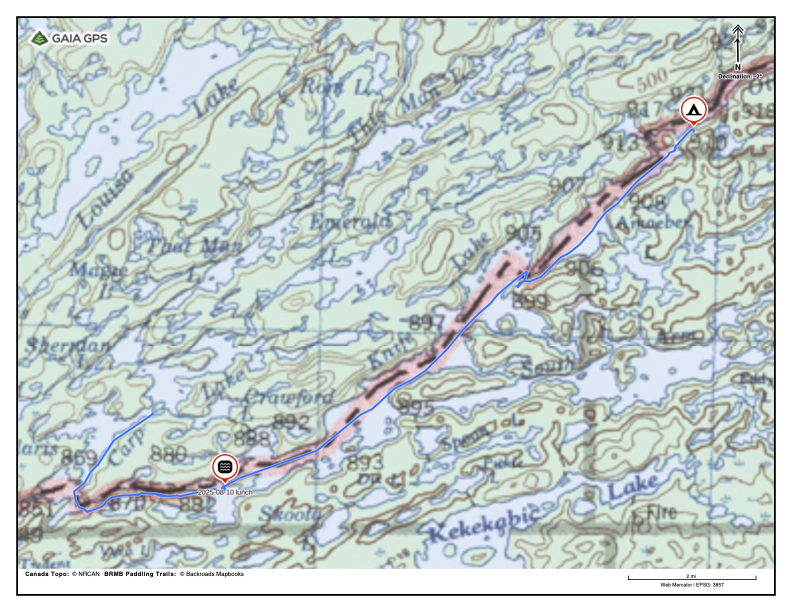
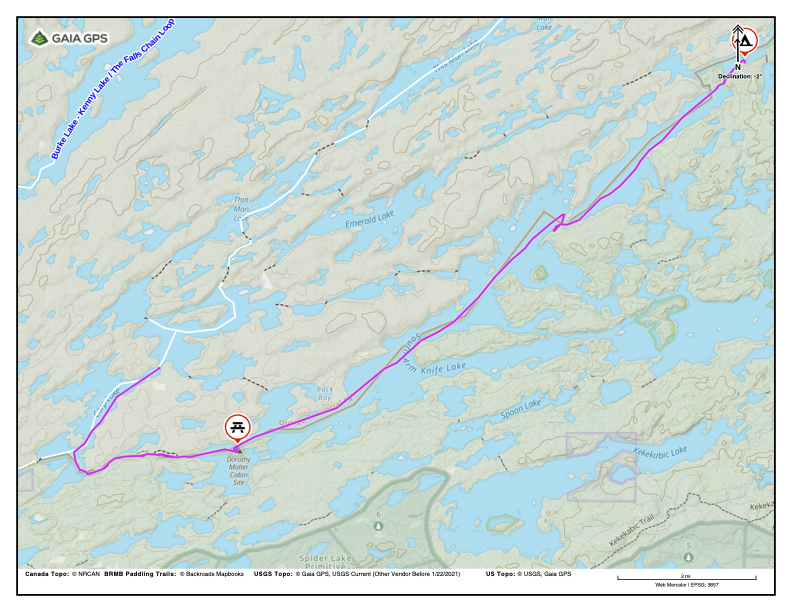
Add map 20250811.png 20250812.png

diff --git a/Hunters-Island-2025.md b/Hunters-Island-2025.md
@@ -383,7 +383,7 @@ growing in it, so it hasn't been used for a while.
 
 The weather was calm until evening, with clouds rolling in and out, but when we
 made camp, the wind was notable. When we went to the tent, the wind had almost
-died but not quite entirely.
+died but not entirely.
 
 I would've liked to have made it to Robinson Island but we were both too tired
 to make the portages between Carp and there.
@@ -409,7 +409,7 @@ that gravy residue doesn't go as well with coffee as does oatmeal residue.
 While we were eating breakfast, Royce was reviewing the maps and spotted an
 alternate route to Knife Lake. Since then, we've been musing about it. Just
 north of us, there is a 100 yard/18 rod portage to Crawford Lake. After a short
-paddle, there is a 0.4 mile/135 rod portage to Back Bay of Knife Lake, which bay
+paddle, there is a 0.4 mile/135 rod portage to Back Bay of Knife Lake, which
 would bring us into Knife north of Robbins Island. This route would be in lieu
 of the portages from Carp to Melon, Melon to Seed, Seed to the unnamed lake, the
 Big Knife Portage (75 rods), plus the paddle from the portage past the east end
@@ -425,16 +425,15 @@ stick with our original plan and to take the portage to Melon Lake.
 (Packing note: yesterday, we had moved both pairs of our Chaco &ldquo;magic
 sandals&rdquo; from the rubber pack to the gear pack and were surprised how
 notable the extra weight was. Today, to balance the load, we moved one pair to
-the food pack.)
+the food pack.) The food barrels are notably lighter and we've started moving
+gear into them.
 
 Wind is low, with occasional gusts. No clouds excepting a few mares tales.
 
-The food barrels are notably lighter and we've started moving gear into them.
-
 I choose to paddle along the north shore of Birch Lake. I'd forgotten how many
-down trees there in the water. A few trees are standing well out in the lake.
-The first dam at Prairie Portage was built around 1900. Could these standing
-dead trees be from before that?
+down trees there are in the water. A few trees are standing well out in the
+lake. The first dam at Prairie Portage was built around 1900. The standing trees
+are old and bleached, but could they be from before that?
 
 ![Royce on Big Knife Portage 2025-08-10 11:33](./attachments/202508101133-000.jpeg "Royce on Big Knife Portage 2025-08-10 11:33")
 
@@ -500,6 +499,8 @@ into Jasper, and head further north into Quetico.
 
 ## 2025-08-11 Day 6: Ottertrack Lake to Saganagons Lake
 
+![Ottertrack Lake, Jasper Lake, Lilypad Lake, Saganagons Lake. 10.8 miles](./attachments/20250811.png "Ottertrack Lake, Jasper Lake, Lilypad Lake, Saganagons Lake. 10.8 miles")
+
 Ottertrack Lake, Jasper Lake, Lilypad Lake, Saganagons Lake. 10.8 miles
 
 ### 2025-08-11T19:04:01-05:00 (48.26726, -91.04823) 1411 feet: Camp on Saganagons Lake
@@ -543,13 +544,13 @@ we oh-so-gracefully made it into the canoe and paddled our way into the lake.
 
 ![Royce on Saganagons end of portage from Lilypad 2025-08-11 15:37](./attachments/202508111537-000.jpeg "Royce on Saganagons end of portage from Lilypad 2025-08-11 15:37")
 
-We saw toad on the portage and a leopard frog at the Saganagons end.
+We saw a toad on the portage and a leopard frog at the Saganagons end.
 
-That portage left us both so tired enough we stopped early. We got the tent up
-and took a quick swim to rinse off some of the loon poop.
+That portage left us both so tired that we stopped early. We got the tent up and
+took a quick swim to rinse off some of the loon poop.
 
 The smoke started to blow in after lunch. The sky is red now, even though the
-sun is a couple hand widths above the horizon.
+sun is a couple hand-widths above the horizon.
 
 Reached camp around 16:00.
 
@@ -568,9 +569,9 @@ where either the *Fisher* or *NatGeo* maps showed it. (One thing about the
 GPS&mdash;we know for sure where we are.) The *BRMB Paddling Trails* map shows
 the portage farther to the east, around a small peninsula, a mile or so out of
 the way, but we decided not to take the time to look there and dug our paddles
-in to make time. We moved fast heading east and reasonably good time heading
-west. I don't know how much time we lost&mdash;if any&mdash;paddling the extra
-seven miles vs. the (unknown) portage.
+in to make time. We moved fast heading east around the peninsula and still made
+reasonably good time heading west. I don't know how much time we lost&mdash;if
+any&mdash;paddling the extra seven miles vs. the (unknown) portage.
 
 ![Royce. Lunch break on Saganagons Lake 2025-08-12 13:03](./attachments/202508121303-000.jpeg "Royce. Lunch break on Saganagons Lake 2025-08-12 13:03")
 
@@ -591,7 +592,7 @@ A thunderstorm blew through while we were portaging. Hazy overcast now.
 Another party was camped across the river from the start of the Koko Falls
 portage.
 
-It was getting dark, so we made a &ldquo;Fort Necessity&rdquo;camp at 19:20. The
+It was getting dark, so we made a &ldquo;Fort Necessity&rdquo; camp at 19:20. The
 tent is a few tens of feet from the portage and a few feet from the falls. It's
 not heavily used but we're not the first here either.
 
